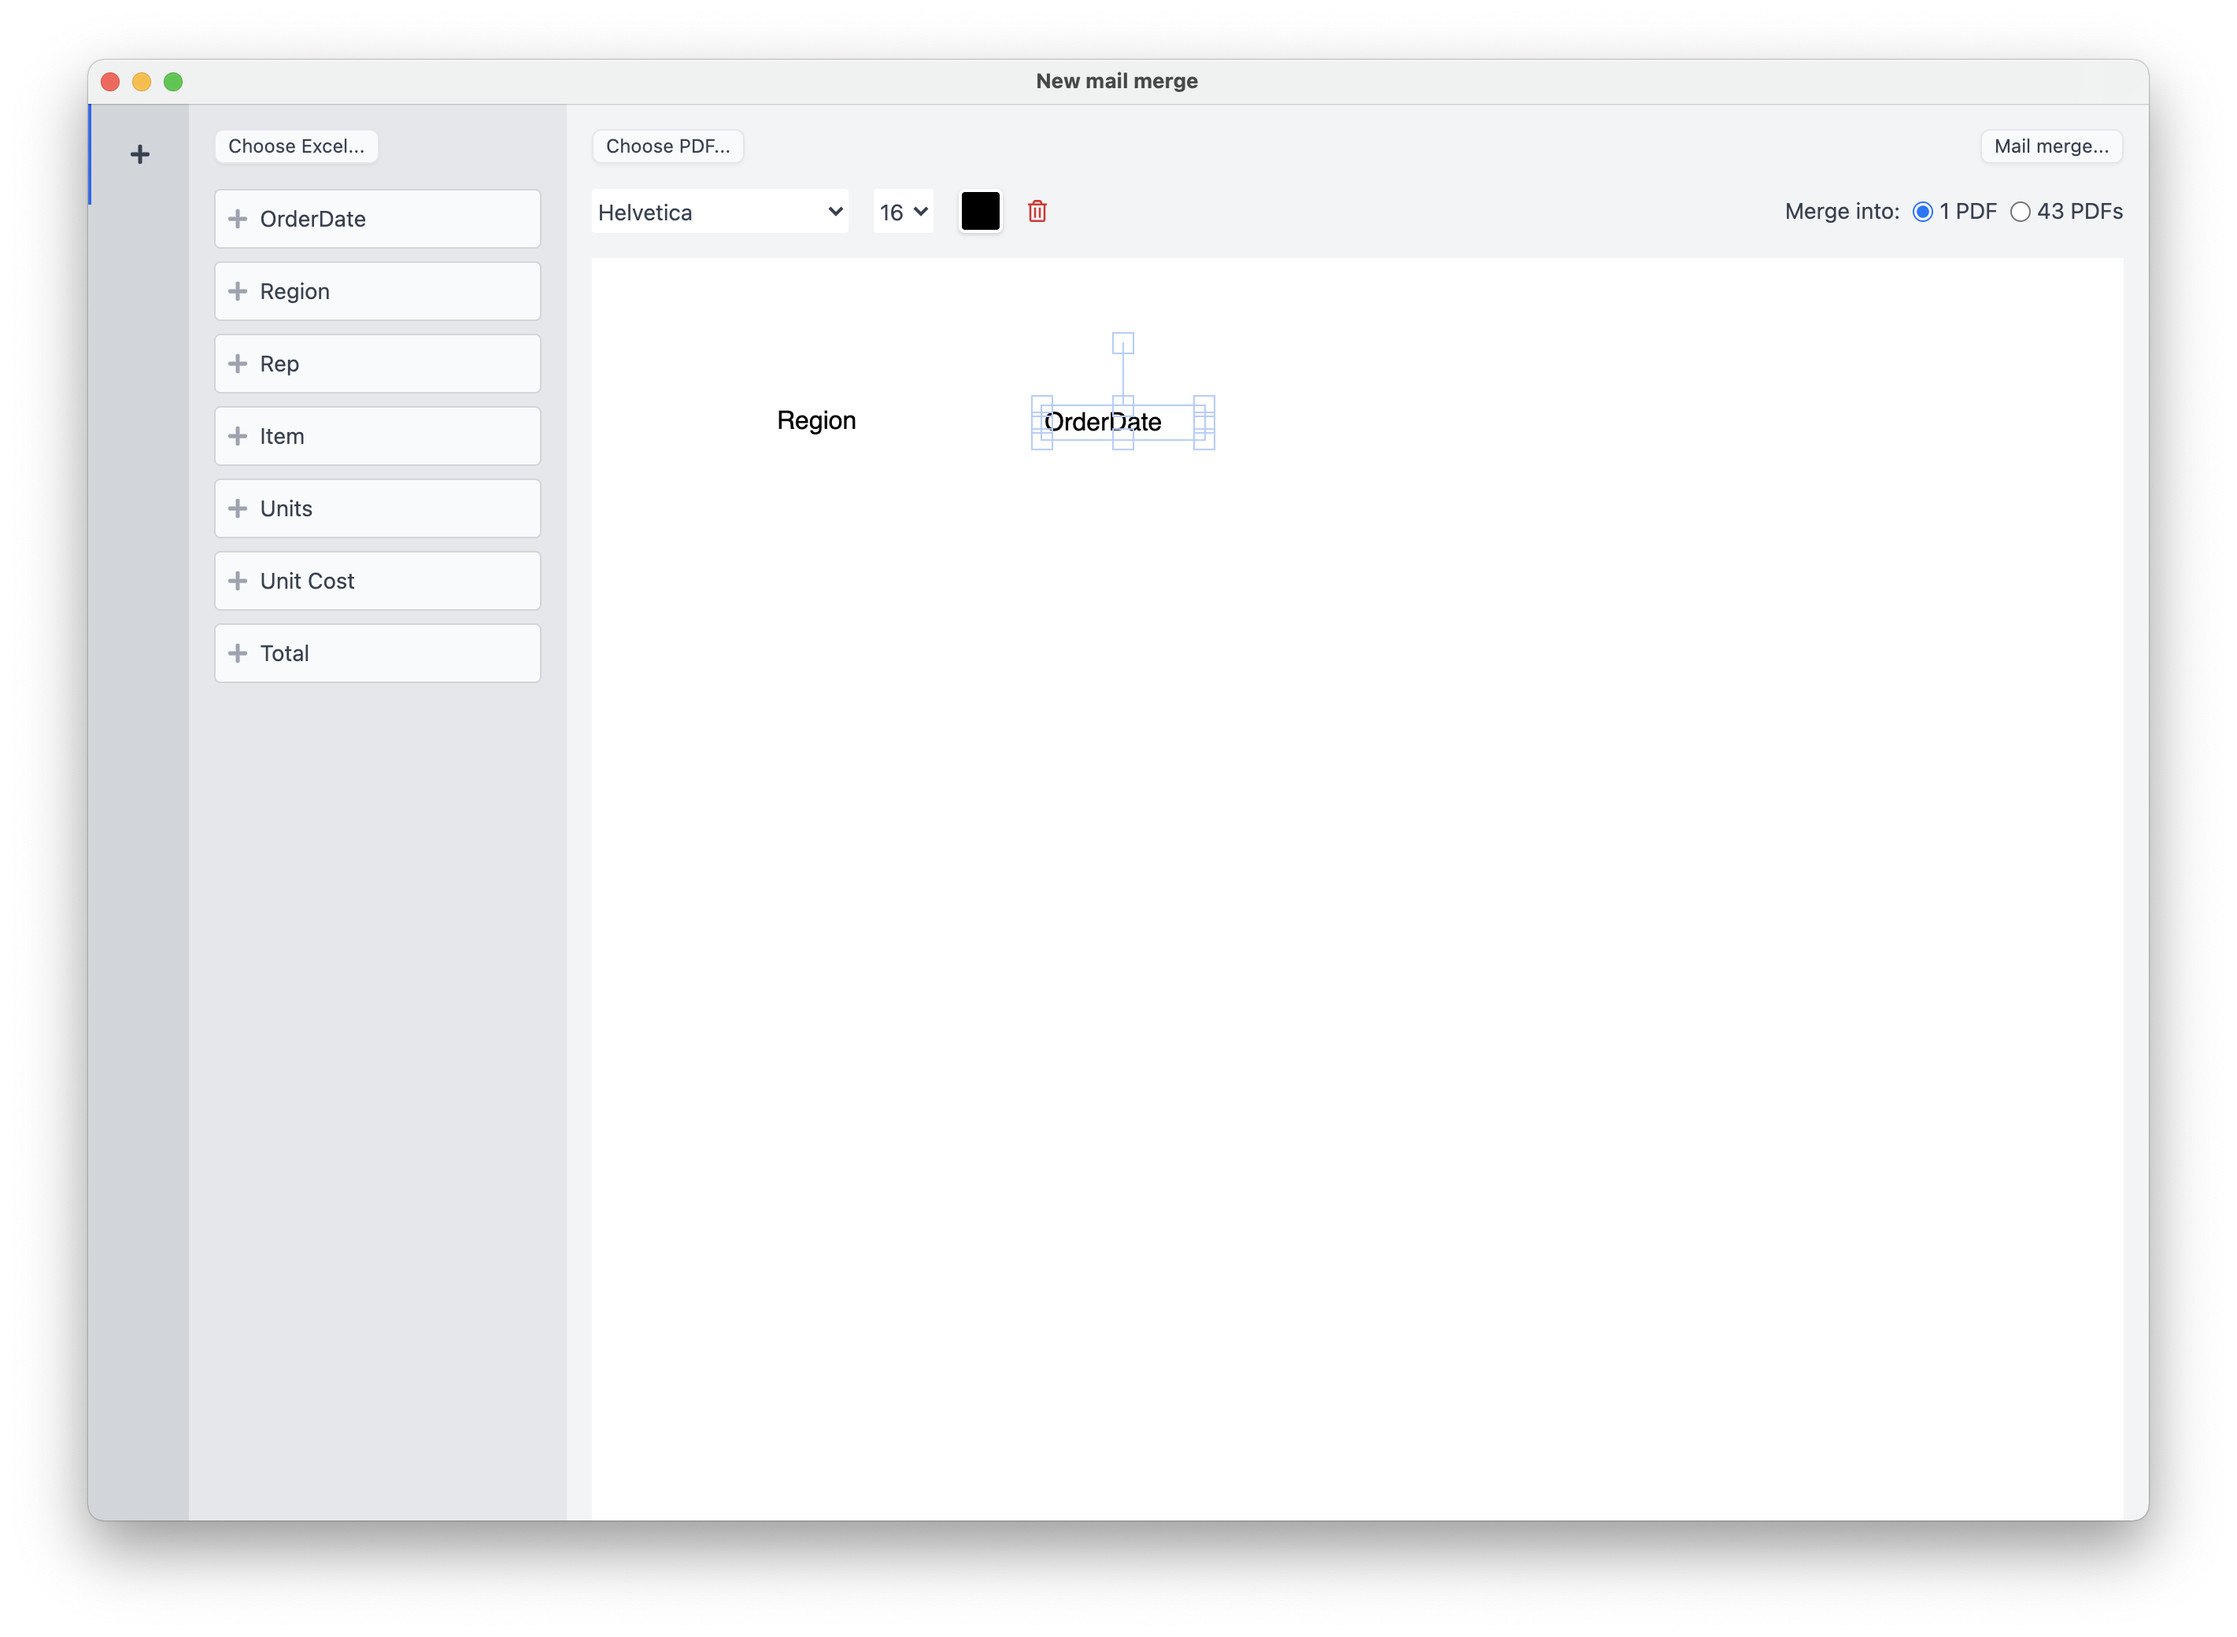
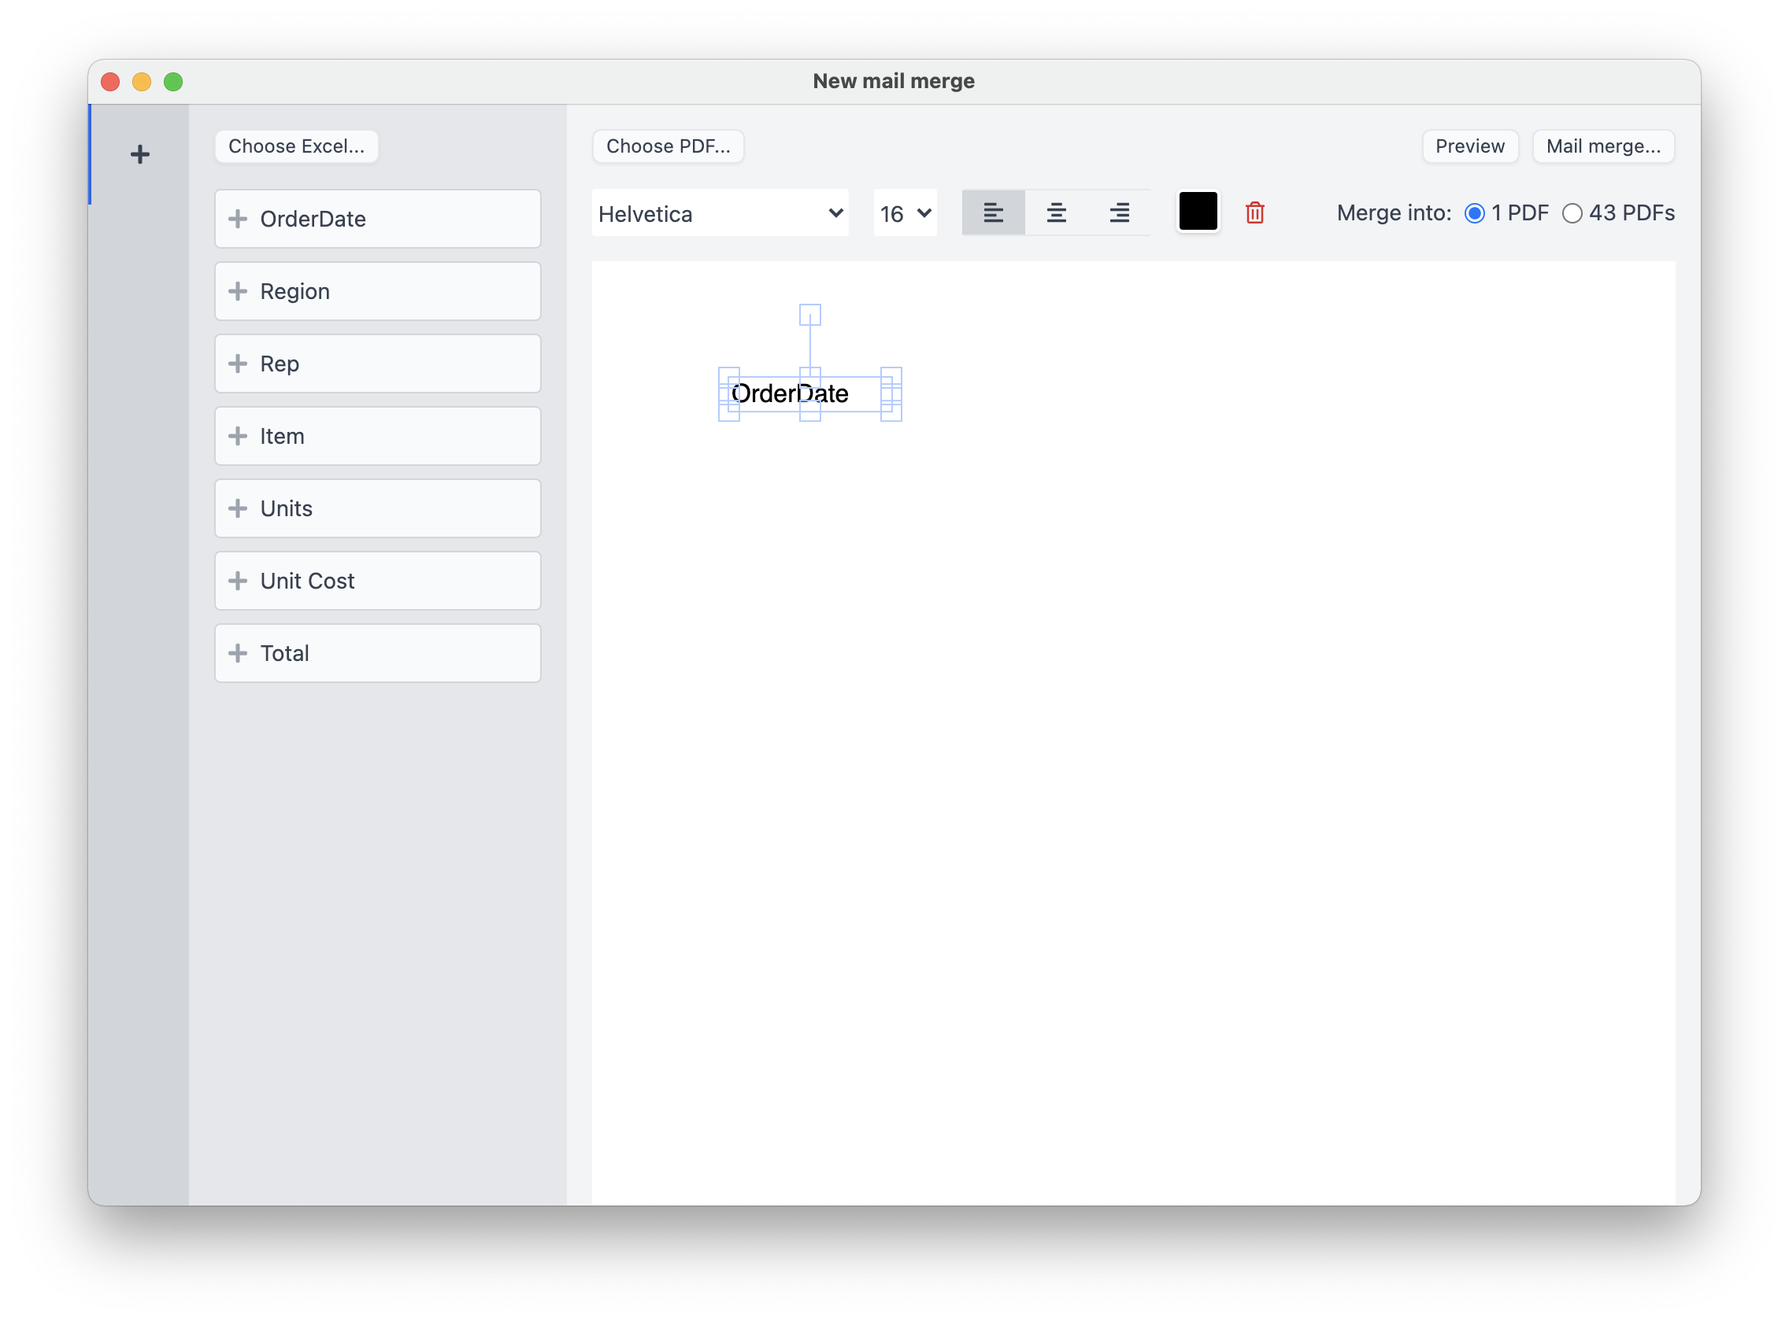
Preview pdf

diff --git a/src/main.dev.ts b/src/main.dev.ts
@@ -24,12 +24,15 @@ import { autoUpdater } from 'electron-updater';
 import log from 'electron-log';
 import { FileFilter, IpcMainInvokeEvent } from 'electron/main';
 import fs from 'fs';
+import nodeurl from 'url';
 import { promisify } from 'util';
 import MenuBuilder from './menu';
 import renderPdf, { RenderPdf } from './render';
 
 const writeFile = promisify(fs.writeFile);
 const readFile = promisify(fs.readFile);
+
+const SheetRowsLimit = 100;
 
 const Store = require('electron-store');
 
@@ -182,62 +185,97 @@ ipcMain.handle('get-store', (_event, { key }) => {
   return store.get(key);
 });
 
-ipcMain.handle(
-  'render-pdf',
-  async (
-    _event,
-    {
+const openPdf = (pdfPath: string) => {
+  const win = new BrowserWindow({
+    title: 'Preview',
+    width: 512,
+    height: 768,
+    webPreferences: {
+      plugins: true,
+      contextIsolation: false,
+    },
+  });
+  win.loadURL(nodeurl.pathToFileURL(pdfPath).toString());
+};
+
+ipcMain.handle('preview-pdf', async (_event, params: RenderPdf) => {
+  const {
+    pdfFile,
+    pageNumber,
+    excelFile,
+    combinePdf,
+    canvasData,
+    canvasWidth,
+  } = params;
+
+  try {
+    const filePath = path.join(app.getPath('temp'), 'plainmerge-preview.pdf');
+    await renderPdf(
+      filePath,
       pdfFile,
-      pageNumber,
+      pageNumber - 1,
       excelFile,
+      1,
       combinePdf,
       canvasData,
-      canvasWidth,
-    }: RenderPdf
-  ) => {
-    const file = await dialog.showSaveDialog({
-      filters: [{ name: 'PDF Files', extensions: ['pdf'] }],
-    });
+      canvasWidth
+    );
+    openPdf(filePath);
+  } catch (e) {
+    console.error(e);
+    if (Notification.isSupported()) {
+      new Notification({
+        title: 'Mail merge preview failed',
+        body: 'Check your Excel and PDF files again',
+      }).show();
+    }
+  }
+});
 
-    if (!file || !file.filePath) return;
+ipcMain.handle('save-pdf', async (_event, params: RenderPdf) => {
+  const {
+    pdfFile,
+    pageNumber,
+    excelFile,
+    combinePdf,
+    canvasData,
+    canvasWidth,
+  } = params;
 
-    console.log(
-      'Render pdf',
+  const file = await dialog.showSaveDialog({
+    filters: [{ name: 'PDF Files', extensions: ['pdf'] }],
+  });
+
+  if (!file || !file.filePath) return;
+
+  try {
+    const created = await renderPdf(
+      file.filePath,
       pdfFile,
-      pageNumber,
+      pageNumber - 1,
       excelFile,
+      SheetRowsLimit,
       combinePdf,
       canvasData,
       canvasWidth
     );
 
-    try {
-      const created = await renderPdf(
-        file.filePath,
-        pdfFile,
-        pageNumber - 1,
-        excelFile,
-        combinePdf,
-        canvasData,
-        canvasWidth
-      );
-
-      if (created > 0 && Notification.isSupported()) {
-        new Notification({
-          title: 'Mail merged successfully',
-          body: `Created ${created} merged file${created === 1 ? '' : 's'}`,
-        }).show();
-      }
-    } catch (e) {
-      if (Notification.isSupported()) {
-        new Notification({
-          title: 'Mail merged failed',
-          body: 'Check your Excel and PDF files again',
-        }).show();
-      }
+    if (created > 0 && Notification.isSupported()) {
+      new Notification({
+        title: 'Mail merged successfully',
+        body: `Created ${created} merged file${created === 1 ? '' : 's'}`,
+      }).show();
+    }
+  } catch (e) {
+    console.error(e);
+    if (Notification.isSupported()) {
+      new Notification({
+        title: 'Mail merged failed',
+        body: 'Check your Excel and PDF files again',
+      }).show();
     }
   }
-);
+});
 
 /**
  * Add event listeners...

diff --git a/src/render.ts b/src/render.ts
@@ -16,8 +16,6 @@ import XLSX from 'xlsx';
 const readFile = promisify(fs.readFile);
 const writeFile = promisify(fs.writeFile);
 
-const SheetRowsLimit = 100;
-
 interface MyTextbox extends Textbox {
   index: number;
 }
@@ -81,12 +79,15 @@ const sheetToArray = (sheet: XLSX.WorkSheet) => {
   return result;
 };
 
-const readFirstSheet = (path: string) => {
-  const workbook = XLSX.readFile(path, { sheetRows: SheetRowsLimit });
+const readFirstSheet = (path: string, rowsLimit: number) => {
+  const headerOffset = 1;
+  const sheetRows = rowsLimit + headerOffset;
+
+  const workbook = XLSX.readFile(path, { sheetRows });
   const sheetsList = workbook.SheetNames;
   const firstSheet = workbook.Sheets[sheetsList[0]];
   const rows = sheetToArray(firstSheet)
-    .slice(1) // Skip header
+    .slice(headerOffset) // Skip header
     .map((arr) => {
       const row: RowMap = {};
       arr.forEach((r, i) => {
@@ -137,7 +138,7 @@ const renderPage = async (
         alignment = TextAlignment.Center;
       }
 
-      const text = row[o.index];
+      const text = String(row[o.index]);
       const multiText = layoutMultilineText(text || '', {
         font,
         fontSize: size,
@@ -172,17 +173,29 @@ const renderPdf = async (
   pdfFile: string,
   pageIndex: number,
   excelFile: string,
+  rowsLimit: number,
   combinePdf: boolean,
   canvasData: CanvasObjects,
   canvasWidth: number
 ) => {
+  console.log(
+    'Render pdf',
+    pdfFile,
+    pageIndex,
+    excelFile,
+    rowsLimit,
+    combinePdf,
+    canvasData,
+    canvasWidth
+  );
+
   const pdfBuff = await readFile(pdfFile);
   const pdfDoc = await PDFDocument.load(pdfBuff);
 
   let newDoc = await PDFDocument.create();
   let cachedFonts: FontMap = {};
 
-  const rows: RowMap[] = readFirstSheet(excelFile);
+  const rows: RowMap[] = readFirstSheet(excelFile, rowsLimit);
   for (let i = 0; i < rows.length; i += 1) {
     const [page] = await newDoc.copyPages(pdfDoc, [pageIndex]);
     await renderPage(

diff --git a/src/components/pdf/PdfEditor.tsx b/src/components/pdf/PdfEditor.tsx
@@ -102,8 +102,8 @@ const PdfEditor = () => {
     }
   };
 
-  const handleSave = async () => {
-    await ipcRenderer.invoke('render-pdf', {
+  const handleRender = async (action: string) => {
+    await ipcRenderer.invoke(action, {
       pdfFile,
       pageNumber,
       excelFile,
@@ -111,6 +111,14 @@ const PdfEditor = () => {
       canvasData: editor?.dump(),
       canvasWidth: parentRef.current?.clientWidth,
     });
+  };
+
+  const handleSave = async () => {
+    await handleRender('save-pdf');
+  };
+
+  const handlePreview = async () => {
+    await handleRender('preview-pdf');
   };
 
   const handleDocumentLoadSuccess = (doc: { numPages: number }) => {
@@ -222,14 +230,24 @@ const PdfEditor = () => {
           >
             Choose PDF...
           </button>
-          <button
-            type="button"
-            className="btn"
-            onClick={handleSave}
-            disabled={!pdfFile || !excelFile}
-          >
-            Mail merge...
-          </button>
+          <section className="flex items-center justify-between space-x-2">
+            <button
+              type="button"
+              className="btn"
+              onClick={handlePreview}
+              disabled={!pdfFile || !excelFile}
+            >
+              Preview
+            </button>
+            <button
+              type="button"
+              className="btn"
+              onClick={handleSave}
+              disabled={!pdfFile || !excelFile}
+            >
+              Mail merge...
+            </button>
+          </section>
         </span>
 
         {pdfFile ? (
